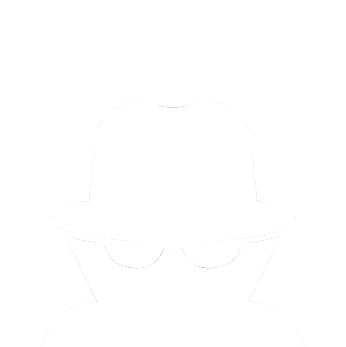
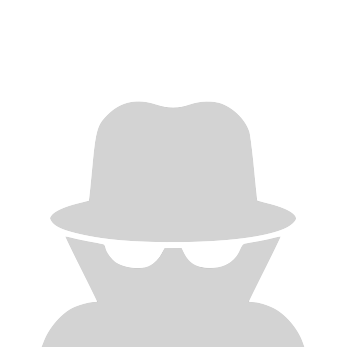
highlight your card (fix #12) and make things darker (for #14)

diff --git a/mafia-react/src/components/PlayerCard.tsx b/mafia-react/src/components/PlayerCard.tsx
@@ -7,6 +7,7 @@ import { red, green, grey } from '@material-ui/core/colors';
 import { makeStyles, createStyles, Theme } from '@material-ui/core/styles';
 
 import spyicon from '../images/spyicon.png';
+import spyiconInverted from '../images/spyicon-inverted.png';
 
 export interface PlayerCardProps {
   name: string;
@@ -15,6 +16,7 @@ export interface PlayerCardProps {
   status: string;
   phase: string;
   checked: boolean;
+  isUser: boolean;
   onKill: (event: React.MouseEvent<unknown>) => void;
   onCheck: (event: React.MouseEvent<unknown>) => void;
   onHeal: (event: React.MouseEvent<unknown>) => void;
@@ -28,6 +30,7 @@ export const PlayerCard = ({
   status,
   phase,
   checked,
+  isUser,
   onKill,
   onHeal,
   onCheck,
@@ -43,14 +46,18 @@ export const PlayerCard = ({
     avatar = <Avatar className={classes.green}></Avatar>;
   }
   return (
-    <Card className={classes.card}>
-      <Card.Img className={classes.image} variant="top" src={spyicon} />
-      <Card.Body style={{ padding: '1rem' }}>
+    <Card className={`${classes.card} ${isUser && classes.isUser}`}>
+      <Card.Img
+        className={classes.image}
+        variant="top"
+        src={isUser ? spyicon : spyiconInverted}
+      />
+      <Card.Body className={classes.cardBody}>
         <div className={classes.infoGroup}>
           <div className={classes.infoText}>
             <Card.Title className={classes.name}>{name}</Card.Title>
             <Card.Text>
-              {role} {status}
+              {role}, {status}
             </Card.Text>
           </div>
           <div className={classes.avatar}>{avatar}</div>
@@ -117,10 +124,27 @@ const useStyles = makeStyles((theme: Theme) =>
     },
     card: {
       width: '15rem',
+      background: 'black',
+      color: 'white',
+    },
+    isUser: {
+      background: '#cfdbff',
+      color: 'black',
+      '&::before': {
+        content: '"(You)"',
+        padding: '1rem',
+        position: 'absolute',
+        fontStyle: 'italic',
+        fontSize: '0.75em',
+        color: 'red',
+      },
     },
     image: {
       width: '10rem',
       margin: 'auto',
+    },
+    cardBody: {
+      padding: '1rem',
     },
     infoGroup: {
       display: 'grid',

diff --git a/mafia-react/src/components/MessageSideBar.tsx b/mafia-react/src/components/MessageSideBar.tsx
@@ -10,9 +10,7 @@ import { makeStyles, createStyles, Theme } from '@material-ui/core/styles';
 
 import { ErrorDialog } from '../components/ErrorDialog';
 
-import spyicon from '../images/spyicon.png';
-
-const drawerWidth = 400;
+import spyiconInverted from '../images/spyicon-inverted.png';
 
 interface MessageType {
   primary: string;
@@ -33,21 +31,23 @@ export const MessageSideBar = ({
   const classes = useStyles();
   return (
     <Drawer
-      className={classes.drawer}
       variant="permanent"
-      classes={{
-        paper: classes.drawerPaper,
-      }}
+      className={classes.drawer}
       anchor="right"
+      style={{ border: 'none !important' }}
     >
-      <List>
+      <List className={classes.list}>
         {messages.map((message) => {
           return (
             <ListItem>
               <ListItemAvatar>
-                <Avatar src={spyicon} />
+                <Avatar src={spyiconInverted} />
               </ListItemAvatar>
-              <ListItemText primary={message.primary} secondary={message.secondary} />
+              <ListItemText
+                primary={message.primary}
+                secondary={message.secondary}
+                classes={{ secondary: classes.secondaryText }}
+              />
             </ListItem>
           );
         })}
@@ -63,22 +63,17 @@ export const MessageSideBar = ({
 
 const useStyles = makeStyles((theme: Theme) =>
   createStyles({
-    root: {
-      flexGrow: 1,
-    },
-    paper: {
-      height: 140,
-      width: 100,
-    },
-    control: {
-      padding: theme.spacing(2),
-    },
     drawer: {
-      width: drawerWidth,
-      flexShrink: 0,
+      width: 400,
+      border: 'none',
     },
-    drawerPaper: {
-      width: drawerWidth,
+    list: {
+      flexShrink: 0,
+      background: 'black',
+      color: 'white',
+    },
+    secondaryText: {
+      color: 'lightgrey',
     },
   }),
 );

diff --git a/mafia-react/src/index.css b/mafia-react/src/index.css
@@ -1,51 +1,53 @@
 body {
-    font: 14px "Century Gothic", Futura, sans-serif;
-    margin: 20px;
-  }
-  
-  ol, ul {
-    padding-left: 30px;
-  }
-  
-  .board-row:after {
-    clear: both;
-    content: "";
-    display: table;
-  }
-  
-  .status {
-    margin-bottom: 10px;
-  }
-  
-  .square {
-    background: #fff;
-    border: 1px solid #999;
-    float: left;
-    font-size: 24px;
-    font-weight: bold;
-    line-height: 34px;
-    height: 34px;
-    margin-right: -1px;
-    margin-top: -1px;
-    padding: 0;
-    text-align: center;
-    width: 34px;
-  }
-  
-  .square:focus {
-    outline: none;
-  }
-  
-  .kbd-navigation .square:focus {
-    background: #ddd;
-  }
-  
-  .game {
-    display: flex;
-    flex-direction: row;
-  }
-  
-  .game-info {
-    margin-left: 20px;
-  }
-  
+  font: 14px 'Century Gothic', Futura, sans-serif;
+  margin: 20px;
+  background: #333;
+  color: white;
+}
+
+ol,
+ul {
+  padding-left: 30px;
+}
+
+.board-row:after {
+  clear: both;
+  content: '';
+  display: table;
+}
+
+.status {
+  margin-bottom: 10px;
+}
+
+.square {
+  background: #fff;
+  border: 1px solid #999;
+  float: left;
+  font-size: 24px;
+  font-weight: bold;
+  line-height: 34px;
+  height: 34px;
+  margin-right: -1px;
+  margin-top: -1px;
+  padding: 0;
+  text-align: center;
+  width: 34px;
+}
+
+.square:focus {
+  outline: none;
+}
+
+.kbd-navigation .square:focus {
+  background: #ddd;
+}
+
+.game {
+  display: flex;
+  flex-direction: row;
+}
+
+.game-info {
+  margin-left: 20px;
+}

diff --git a/mafia-react/src/pages/GameRoom.tsx b/mafia-react/src/pages/GameRoom.tsx
@@ -116,8 +116,9 @@ export const GameRoom = (props: Props) => {
           <Typography variant="h2">Game Room</Typography>
           <Grid sm={8} container className={classes.root} spacing={2}>
             {data?.data.players.map((player: PlayerType) => {
+              const isUser = player.userId === Cookies.get('userId');
               return (
-                <Grid item>
+                <Grid item data-is-user={isUser} style={{ order: isUser ? -1 : 0 }}>
                   <PlayerCard
                     name={player.name}
                     role={
@@ -137,6 +138,7 @@ export const GameRoom = (props: Props) => {
                         : false
                     }
                     status={player.status}
+                    isUser={player.userId === Cookies.get('userId')}
                     phase={data?.data.phase}
                     onKill={async (event) =>
                       await killRequest(params.roomId, player.userId).catch((err) => {
